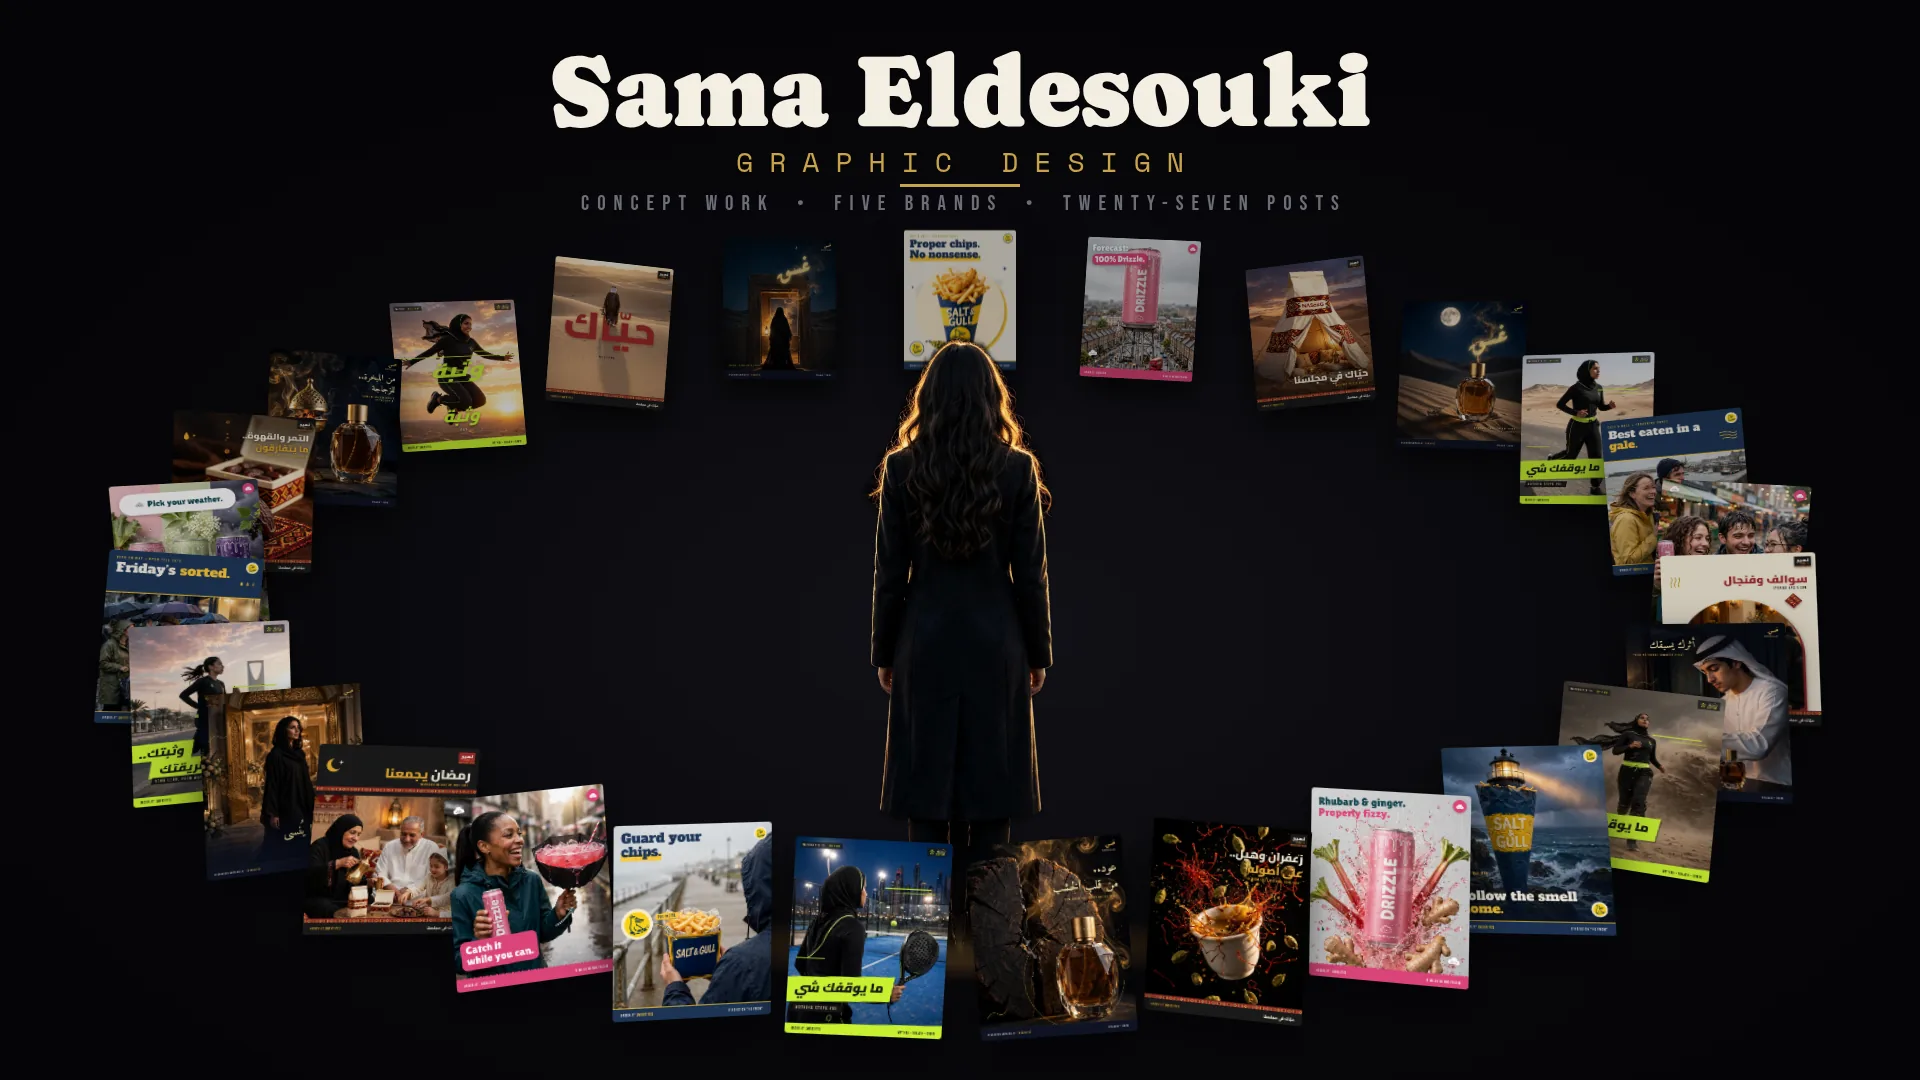
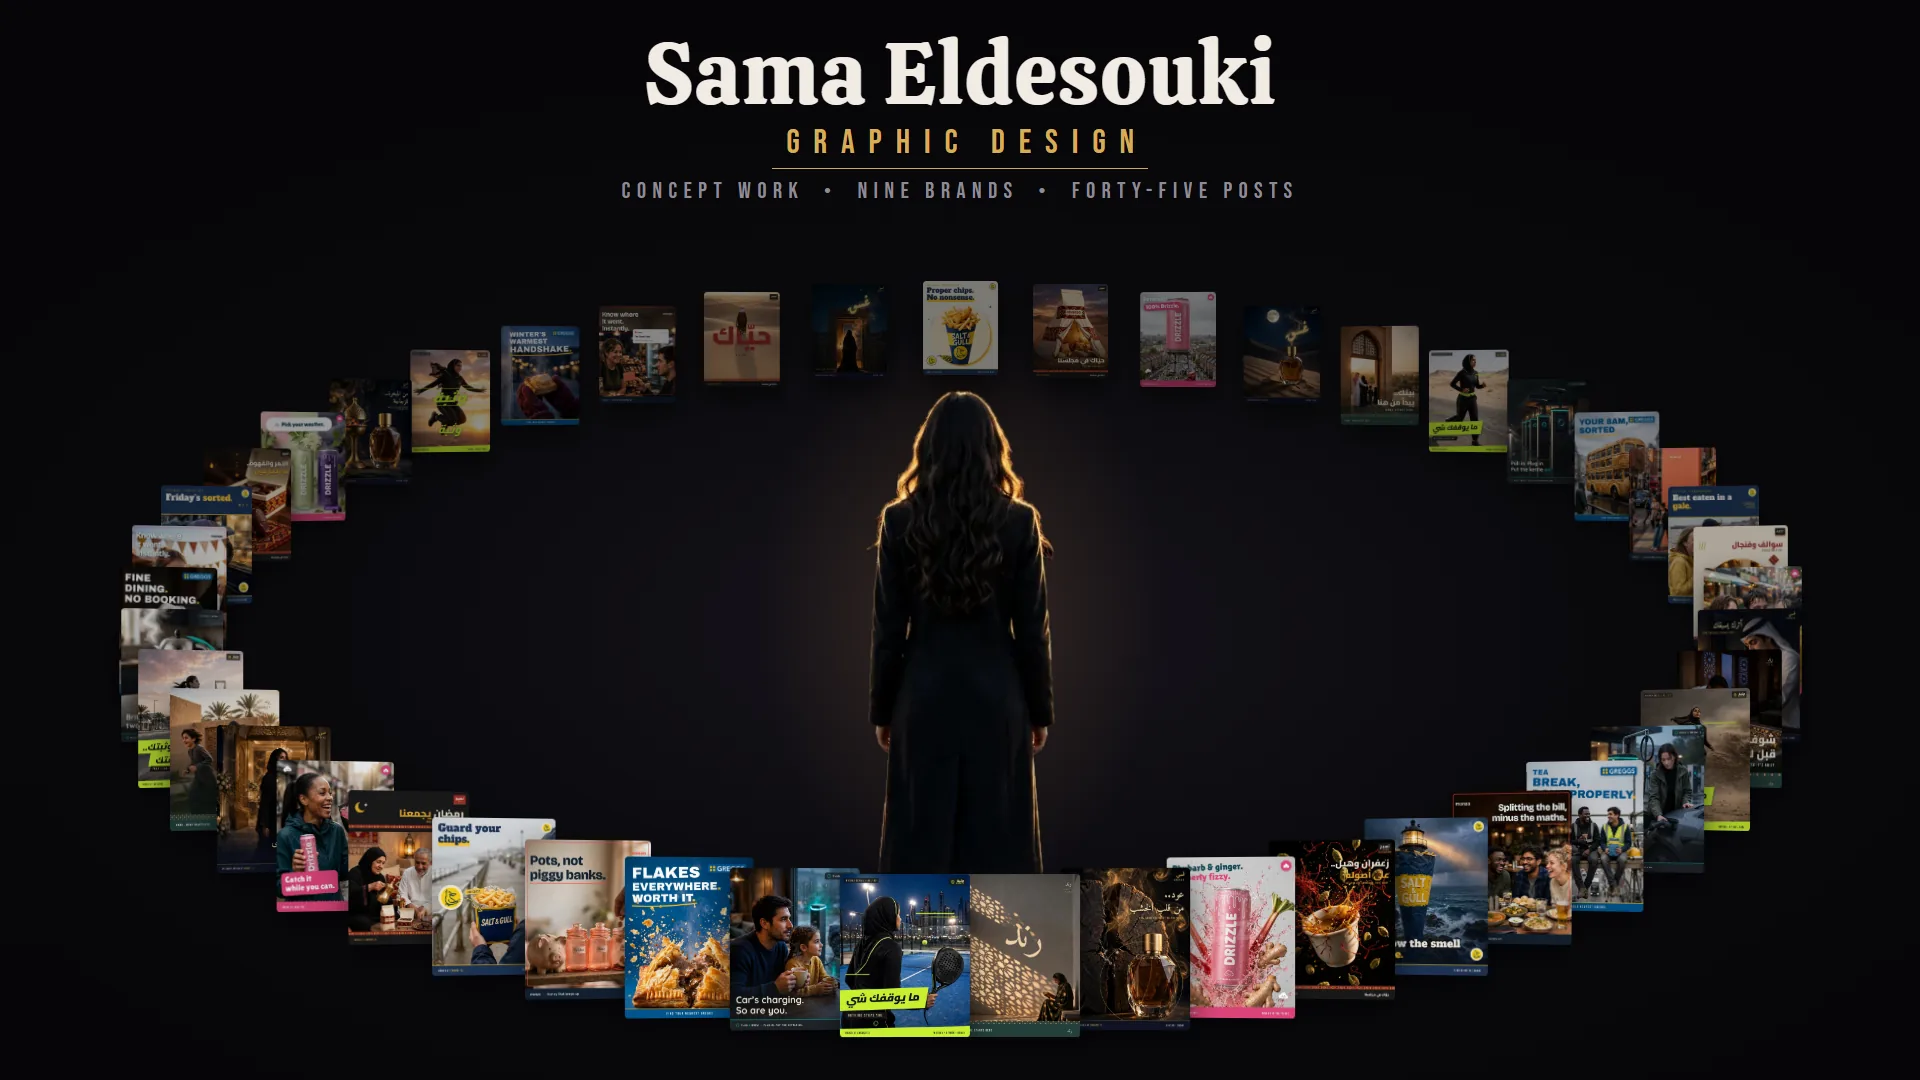
Design page: light mode, and nine-brand hero and share image

Changed region(s): [[0.0312, 0.0306, 0.9688, 0.9778], [0.4375, 0.6722, 0.4688, 0.7028], [0.4375, 0.6111, 0.4688, 0.6417]]

diff --git a/design/index.html b/design/index.html
@@ -12,7 +12,7 @@
   <meta property="og:image" content="https://sayrz1.github.io/assets/og/design.jpg">
   <meta property="og:image:width" content="1200">
   <meta property="og:image:height" content="630">
-  <meta property="og:image:alt" content="Sama Eldesouki, graphic design: a ring of social posts from five brands around a figure in the dark.">
+  <meta property="og:image:alt" content="Sama Eldesouki, graphic design: a ring of social posts from nine brands around a figure in the dark.">
   <meta name="twitter:card" content="summary_large_image">
   <meta name="twitter:title" content="Graphic design · Sama Eldesouki">
   <meta name="twitter:description" content="9 concept brands, one idea each: Salt & Gull, Drizzle, Naseeg, Ghasaq, Wathba, Rand, Plug & Brew, Greggs and Monzo.">
@@ -25,14 +25,17 @@
   <link href="https://fonts.googleapis.com/css2?family=Alfa+Slab+One&family=Amiri:wght@700&family=Aref+Ruqaa:wght@700&family=Bebas+Neue&family=Cairo:wght@700;900&family=IBM+Plex+Mono:wght@400&family=IBM+Plex+Sans:wght@400;500;600&family=Lilita+One&family=Montserrat:wght@900&family=Quicksand:wght@700&family=Ubuntu:wght@700&display=swap" rel="stylesheet">
   <link rel="stylesheet" href="https://unpkg.com/@phosphor-icons/web@2.1.1/src/regular/style.css">
   <link rel="stylesheet" href="design.css">
-  <script>document.documentElement.classList.add("js");</script>
+  <script>(function (d) { d.classList.add("js"); var t; try { t = localStorage.getItem("theme"); } catch (e) {} d.dataset.theme = t || (matchMedia("(prefers-color-scheme: light)").matches ? "light" : "dark"); })(document.documentElement);</script>
 </head>
 <body>
   <a class="skip" href="#brands">Skip to the brands</a>
 
   <header class="top">
     <a class="brand-link" href="../" aria-label="Sama Eldesouki, home"><span class="brand-mark">SE</span><span class="brand-text">Sama Eldesouki</span></a>
-    <a class="btn" href="mailto:s.ayrzpersonal@gmail.com?subject=A%20brand%20identity">Start a brand</a>
+    <div class="top-actions">
+      <button class="icon-btn theme-btn" id="theme-toggle" type="button" aria-label="Switch to light mode"><i class="ph ph-sun" aria-hidden="true"></i></button>
+      <a class="btn" href="mailto:s.ayrzpersonal@gmail.com?subject=A%20brand%20identity">Start a brand</a>
+    </div>
   </header>
 
   <main>

diff --git a/design/design.css b/design/design.css
@@ -126,7 +126,7 @@ html:not(.js) .b-panel + .b-panel { margin-top: 64px; }
 .filter-show { padding-left: 16px; font-size: 15px; color: var(--muted); }
 .filter-select { appearance: none; -webkit-appearance: none; min-height: 44px; padding: 8px 40px 8px 8px; border: 0; background: transparent; color: var(--ink); font: 600 15px/1 var(--sans); cursor: pointer; }
 .filter-select:focus-visible { outline: none; }
-.filter-select option, .filter-select optgroup { background: #15141a; color: #f1ece3; }
+.filter-select option, .filter-select optgroup { background: var(--bg); color: var(--ink); }
 .filter-pick i { position: absolute; right: 14px; pointer-events: none; font-size: 15px; }
 .overview-head + .cards, .overview-head { margin-bottom: 24px; }
 .cards { list-style: none; margin: 0; padding: 0; display: grid; grid-template-columns: repeat(auto-fill, minmax(min(100%, 280px), 1fr)); gap: clamp(16px, 2vw, 24px); }
@@ -282,3 +282,12 @@ body[data-brand="plug-brew"] { --bg: #1E2327; --ink: #EFE7DA; --accent: #00B3A5;
   .b-cover { order: -1; }
 }
 @media (max-width: 560px) { .hero h1 { font-size: 50px; } .hero-sub { font-size: 16px; margin-top: 14px; } .overview { padding-top: 24px; } }
+
+/* ---------- Light mode: the studio goes light, brand views keep their own colours ---------- */
+:root[data-theme="light"] { --bg: #F3EFE8; --ink: #16141B; --accent: #16141B; --on-accent: #F3EFE8; color-scheme: light; }
+.top-actions { display: flex; align-items: center; gap: 10px; }
+.is-brand .theme-btn { display: none; }
+:root[data-theme="light"] .hero-art { -webkit-mask-image: none; mask-image: none; border-radius: 20px; overflow: hidden; box-shadow: 0 40px 80px -48px rgb(40 28 16 / .55); }
+:root[data-theme="light"] body:not([data-brand]) .card a { background: #FFFFFF; box-shadow: 0 1px 0 rgb(40 28 16 / .06), 0 22px 44px -32px rgb(40 28 16 / .45); }
+:root[data-theme="light"] body:not([data-brand]) .card a:hover { box-shadow: 0 1px 0 rgb(40 28 16 / .06), 0 32px 54px -30px rgb(40 28 16 / .5); }
+:root[data-theme="light"] .card-ar { color: color-mix(in srgb, var(--c) 45%, var(--ink)); }

diff --git a/design/design.js b/design/design.js
@@ -5,14 +5,36 @@
   const $$ = (s, r = document) => [...r.querySelectorAll(s)];
   const brands = $$(".brand");
   const themeMeta = $('meta[name="theme-color"]');
-  const studio = themeMeta.content;
+  const root = document.documentElement;
+  const studioBg = () => getComputedStyle(root).getPropertyValue("--bg").trim();
+
+  /* ---------- Theme: same saved choice as the homepage ---------- */
+  const themeBtn = $("#theme-toggle");
+  const syncTheme = () => {
+    const dark = root.dataset.theme !== "light";
+    themeBtn.innerHTML = `<i class="ph ${dark ? "ph-sun" : "ph-moon"}" aria-hidden="true"></i>`;
+    themeBtn.setAttribute("aria-label", dark ? "Switch to light mode" : "Switch to dark mode");
+    if (!document.body.dataset.brand) themeMeta.content = studioBg();
+  };
+  const setTheme = (t) => { root.dataset.theme = t; syncTheme(); };
+  themeBtn.addEventListener("click", () => {
+    const next = root.dataset.theme === "light" ? "dark" : "light";
+    try { localStorage.setItem("theme", next); } catch (e) {}
+    setTheme(next);
+  });
+  matchMedia("(prefers-color-scheme: light)").addEventListener("change", (e) => {
+    let saved = null;
+    try { saved = localStorage.getItem("theme"); } catch (err) {}
+    if (!saved) setTheme(e.matches ? "light" : "dark");
+  });
+  syncTheme();
 
   /* ---------- One brand at a time: #<brand> opens it, anything else shows the overview ---------- */
   const hero = $(".hero"), overview = $(".overview");
   const setBrand = (el) => {
     if (el) document.body.dataset.brand = el.dataset.brand;
     else delete document.body.dataset.brand;
-    themeMeta.content = el ? el.dataset.meta : studio;
+    themeMeta.content = el ? el.dataset.meta : studioBg();
   };
   let lastBrand = null;
   const route = () => {
